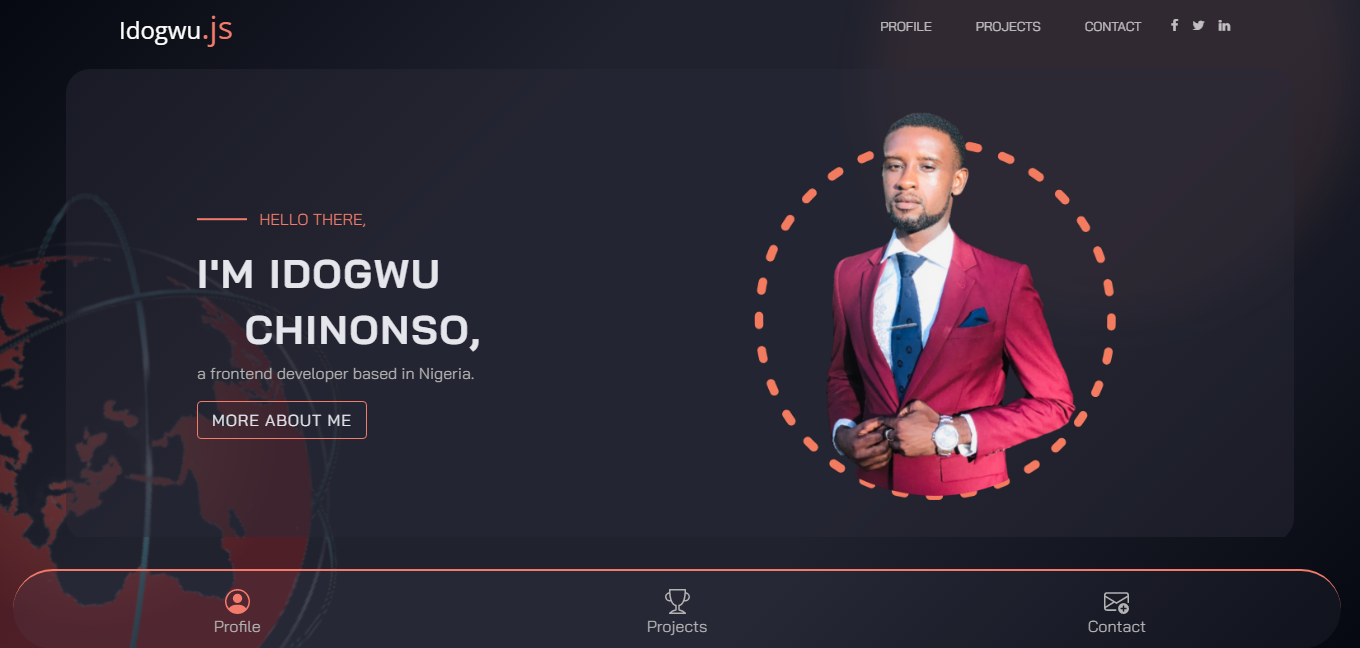
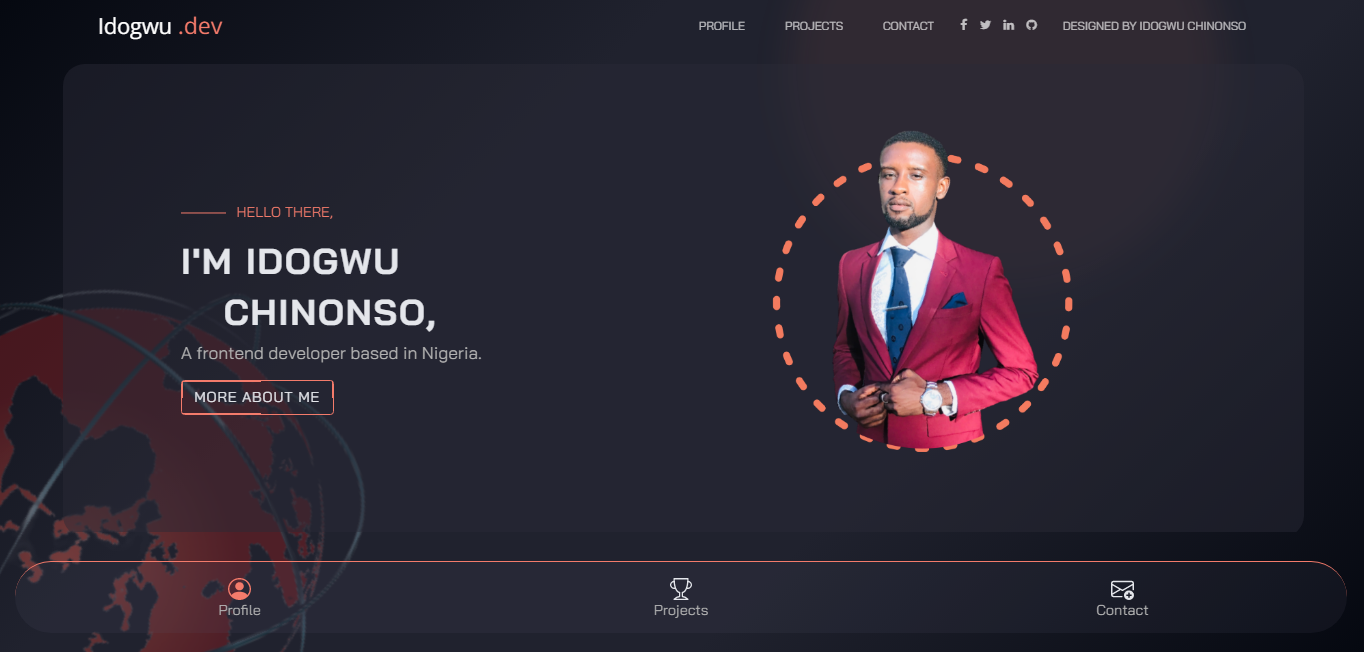
corrections & bug fix

diff --git a/index.html b/index.html
@@ -6,14 +6,13 @@
     <meta charset="utf-8">
     <meta name="viewport" content="width=device-width, initial-scale=1, shrink-to-fit=no">
     <link rel="icon" type="image/x-icon" href="/images/favicon.ico">
-
     <link href="https://fonts.googleapis.com/css?family=Open+Sans:300,400,700" rel="stylesheet">
-
     <link rel="stylesheet" href="fonts/icomoon/style.css">
-
     <link rel="stylesheet" href="css/owl.carousel.min.css">
 
-
+    <!-- animiate on scroll -->
+    <link rel="stylesheet" href="https://cdnjs.cloudflare.com/ajax/libs/animate.css/4.1.1/animate.min.css" integrity="sha512-c42qTSw/wPZ3/5LBzD+Bw5f7bSF2oxou6wEb+I/lqeaKV5FDIfMvvRp772y4jcJLKuGUOpbJMdg/BTl50fJYAw==" crossorigin="anonymous" referrerpolicy="no-referrer"
+    />
     <!-- font family -->
     <link href="https://fonts.googleapis.com/css2?family=Bai+Jamjuree:wght@400;600;700&display=swap" rel="stylesheet">
     <link href="https://fonts.googleapis.com/css2?family=Kanit:wght@600&display=swap" rel="stylesheet">
@@ -59,6 +58,11 @@
                             email.value = '';
                             message.value = '';
                         }, 1000);
+                        setTimeout(function() {
+                            submit.disabled = false;
+                            submit.value = "Send"
+                            submit.classList.remove("submited")
+                        }, 5000);
                     }, function(error) {
                         console.log('FAILED...', error);
                     });
@@ -95,38 +99,33 @@
                     <nav class="site-navigation position-relative text-right" role="navigation">
 
                         <ul class="site-menu main-menu js-clone-nav mr-auto d-none d-lg-block">
-                            <li><a class="nav-link profile2">Profile</a></li>
-                            <li><a href="" class="nav-link">Projects</a></li>
-                            <li><a href="" class="nav-link">Contact</a></li>
+                            <li><a href="" class="nav-link profile2" onclick="profile()">Profile</a></li>
+                            <li><a href="" class="nav-link" onclick="projects()">Projects</a></li>
+                            <li><a href="" class="nav-link" onclick="contact()">Contact</a></li>
                             <li class="social"><a href="https://web.facebook.com/idogwu.chinonso.1/" class="nav-link" target="_blank"><span class="icon-facebook"></span></a></li>
                             <li class="social"><a href="https://mobile.twitter.com/ChinonsoIdogwu" target="_blank" class="nav-link"><span class="icon-twitter"></span></a></li>
                             <li class="social"><a href="https://ng.linkedin.com/in/idogwu-chinonso-a9117b1a3" class="nav-link" target="_blank"><span class="icon-linkedin"></span></a></li>
                             <li class="social"><a href="https://t.co/eIp9riWHfd" class="nav-link" target="_blank"><span class="icon-github"></span></a></li>
+                            <li><a class="nav-link branding">Designed by Idogwu Chinonso</a></li>
                         </ul>
                     </nav>
                 </div>
-
-
                 <div class="col-6 d-inline-block d-xl-none ml-md-0 py-3" style="position: relative; top: 3px;"><a href="#" class="site-menu-toggle js-menu-toggle float-right"><span class="icon-menu h3"></span></a></div>
-
             </div>
         </div>
-
     </header>
 
     <div class="container-fluid main-container">
-
         <div class="mobile-container">
-
             <div class="about-me mobile-sec">
-                <div class="about-color about-color1" data-aos="fade-right">
+                <div class="about-color about-color1 " data-aos="fade-right">
                     <div class="row">
-                        <div class="img-sec col-12 col-sm-12 col-md-4 order-md-2">
+                        <div class="img-sec col-12 col-sm-12 col-md-4 order-md-2 wow animiated animate__animated animate__backInLeft animate__slow">
                             <img class="main-img" src="./images/pics4web-min.png" alt="">
                             <img class="main-img-lg" src="./images/pics-4-website.png" alt="">
                             <img class="rotate" src="./images/pattern-bg.svg" alt="">
                         </div>
-                        <div class="text-sec col-sm-12 col-12 col-md-8">
+                        <div class="text-sec col-sm-12 col-12 col-md-8 wow animiated animate__animated animate__backInRight animate__slow">
                             <div class="col .align-self-end intro-text">
                                 <p class="hail">
                                     HELLO THERE,
@@ -138,11 +137,11 @@
                                 <h1 class="me ml-5">
                                     CHINONSO,
                                 </h1>
-                                <p>
-                                    a frontend developer based in Nigeria.
+                                <p class="desc">
+                                    A frontend developer based in Nigeria.
                                 </p>
                                 <div class="know-more">
-                                    <button class=" btn move-down know-more-btn"> MORE ABOUT ME </button>
+                                    <button class=" btn move-down know-more-btn"> <span>MORE ABOUT ME</span>  </button>
                                 </div>
                             </div>
                         </div>
@@ -157,8 +156,8 @@
                         <span class="design">...</span>
                     </h4>
                     <p class="mb-2">
-                        I'm a growing frontend developer with under one year experience converting still life designs to modern interactive websites. i'm also a graphics designer, a problem solver, a lover of animiated movies, good music, mobile and desktop games. I'm currently
-                        available for intenship / job opportunities globally.
+                        I'm a growing frontend developer with under one year experience converting still life designs to modern interactive websites, i'm a goal getter and a team player. i'm also a graphics designer, a problem solver, a lover of animiated movies, good music,
+                        mobile and desktop games. I'm currently available for internship / job opportunities globally.
                     </p>
                 </div>
 
@@ -388,7 +387,7 @@
                                 Contact Me <span class="design">...</span>
                             </h4>
                             <p>
-                                Have an exciting intrenship, job placement or project that could use my help?
+                                Have an internship, job placement or exciting project that could use my help?
                             </p>
                             <p>
                                 Drop a message lets connect!
@@ -475,10 +474,11 @@
     </div>
 
 
-
+    <script src="https://cdnjs.cloudflare.com/ajax/libs/wow/1.1.2/wow.min.js" integrity="sha512-Eak/29OTpb36LLo2r47IpVzPBLXnAMPAVypbSZiZ4Qkf8p/7S/XRG5xp7OKWPPYfJT6metI+IORkR5G8F900+g==" crossorigin="anonymous" referrerpolicy="no-referrer"></script>
     <script src="https://unpkg.com/aos@2.3.1/dist/aos.js "></script>
     <script>
         AOS.init();
+        new WOW().init();
     </script>
 
 

diff --git a/css/style2.css b/css/style2.css
@@ -96,6 +96,10 @@ body {
     margin-top: 1.5rem;
 }
 
+.desc {
+    font-size: 1.2rem;
+}
+
 .design {
     color: #f37b6b;
     font-size: 1.6rem;
@@ -109,7 +113,7 @@ body {
 .img-sec img {
     height: auto;
     margin-bottom: 1rem;
-    margin-top: 1rem;
+    margin-top: .2rem;
 }
 
 .main-img-lg {
@@ -136,6 +140,70 @@ body {
     padding-left: 14px;
     padding-right: 14px;
     transition: all .5s ease-in;
+    position: relative;
+    z-index: 3;
+}
+
+.know-more-btn span {
+    z-index: 10;
+}
+
+.know-more-btn::before {
+    position: absolute;
+    content: "";
+    top: 0;
+    left: 0;
+    width: 100%;
+    height: 0%;
+    background-color: transparent;
+    border-right: 1.5px solid #f37b6b;
+    border-left: 1.5px solid #f37b6b;
+    transition: all .35s ease;
+    animation: drawUp 0.82s;
+    animation-duration: 10s;
+    animation-iteration-count: infinite;
+    z-index: -1;
+}
+
+.know-more-btn::after {
+    position: absolute;
+    content: "";
+    top: 0;
+    left: 0;
+    width: 0;
+    height: 100%;
+    background-color: transparent;
+    border-top: 1.5px solid #f37b6b;
+    border-bottom: 1.5px solid #f37b6b;
+    transition: all .35s ease;
+    animation: draw 0.82s;
+    animation-duration: 10s;
+    animation-iteration-count: infinite;
+    z-index: -1;
+}
+
+@keyframes drawUp {
+    0% {
+        height: 0;
+    }
+    50% {
+        height: 100%;
+    }
+    100% {
+        height: 0;
+    }
+}
+
+@keyframes draw {
+    0% {
+        width: 0;
+    }
+    50% {
+        width: 100%;
+    }
+    100% {
+        width: 0;
+    }
 }
 
 .know-more-btn:hover {
@@ -192,9 +260,19 @@ body {
     color: #e4e6eb;
 }
 
+.my-h4 {
+    text-transform: uppercase;
+    font-size: 1.1rem;
+    letter-spacing: 2px;
+}
+
 .skills-Projects {
     margin-left: .1rem;
     padding: .5rem;
+}
+
+.skills-Projects h4 {
+    margin-left: 1.5rem;
 }
 
 .skills-sec {
@@ -306,7 +384,7 @@ body {
 
 .contact-form input {
     width: 100%;
-    color: #b3b3b3;
+    color: #e4e6eb;
     border-radius: 7px;
     height: 2.3rem;
     padding-left: .7rem;
@@ -424,6 +502,13 @@ body {
 @keyframes rotate {
     100% {
         transform: rotate(360deg);
+    }
+}
+
+@media screen and (max-width: 1024px) {
+    .branding {
+        text-align: center;
+        margin-top: 5rem;
     }
 }
 
@@ -737,12 +822,12 @@ body {
     }
     .main-img-lg {
         display: block;
-        max-width: 380px;
+        max-width: 350px;
         height: auto;
         transform: translateX(-150px);
     }
     .img-sec img {
-        margin-top: 1rem;
+        margin-top: 3rem;
     }
     .text-sec {
         margin-top: 10%;

diff --git a/js/slide.js b/js/slide.js
@@ -11,25 +11,65 @@ const profile2 = document.querySelector(".profile2");
 
 
 profileBtn.onclick = (() => {
+    close();
+    profileColor();
+});
+
+projectsBtn.onclick = (() => {
+    close();
+    projectsColor();
+});
+
+contactBtn.onclick = (() => {
+    close();
+    contactColor();
+});
+
+function profile() {
+    event.preventDefault();
+    close();
+    profileColor();
+}
+
+function projects() {
+    event.preventDefault();
+    close();
+    projectsColor();
+}
+
+function contact() {
+    event.preventDefault();
+    close();
+    contactColor();
+}
+
+function close() {
+    if ($('body').hasClass('offcanvas-menu')) {
+        $('body').removeClass('offcanvas-menu');
+    }
+}
+
+function profileColor() {
     mobileContainer.style.marginLeft = "0%";
     profileBtn.style.color = "#f37b6b";
     projectsBtn.style.color = "#b3b3b3";
     contactBtn.style.color = "#b3b3b3";
-});
+}
 
-projectsBtn.onclick = (() => {
+function projectsColor() {
     mobileContainer.style.marginLeft = "-104vw";
     profileBtn.style.color = "#b3b3b3";
     projectsBtn.style.color = "#f37b6b";
     contactBtn.style.color = "#b3b3b3";
-});
+}
 
-contactBtn.onclick = (() => {
+function contactColor() {
     mobileContainer.style.marginLeft = "-205vw";
     profileBtn.style.color = "#b3b3b3";
     projectsBtn.style.color = "#b3b3b3";
     contactBtn.style.color = "#f37b6b";
-});
+}
+
 
 downBtn.onclick = (() => {
     aboutContainer.style.marginTop = "-31rem";
@@ -44,19 +84,5 @@ upBtn.onclick = (() => {
     moreContainer.style.opacity = "0";
 });
 
-// submit.addEventListener("click", submited);
 
-// function submited() {
-//     setTimeout(function() {
-
-//     }, 1000);
-
-// }
-
-profile2.addEventListener("click", shift);
-
-function shift() {
-    console.log("testing")
-    mobileContainer.style.marginLeft = "3%";
-
-}
+// form submission
